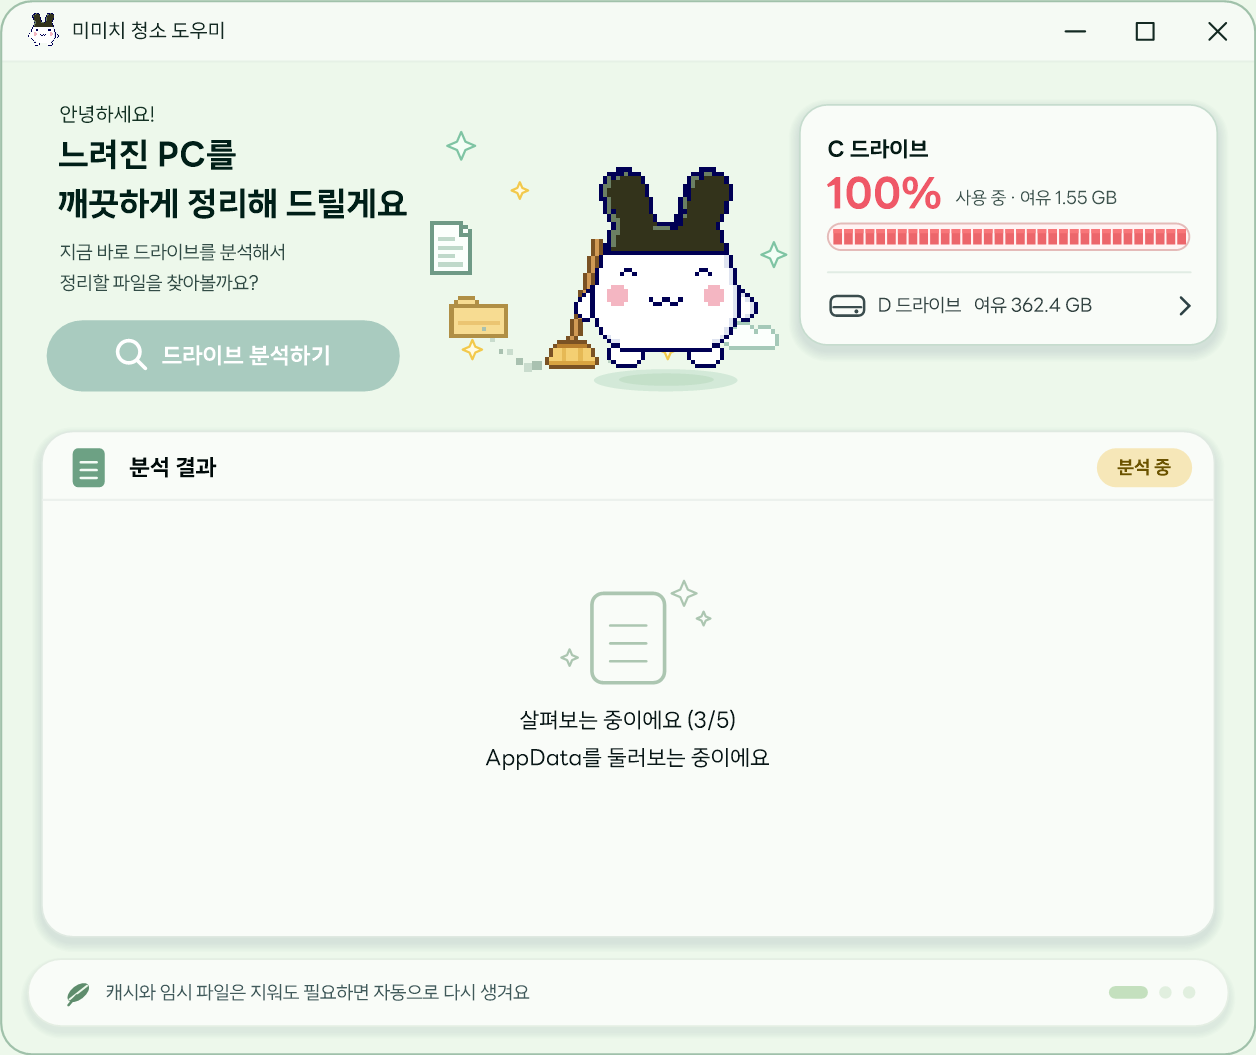
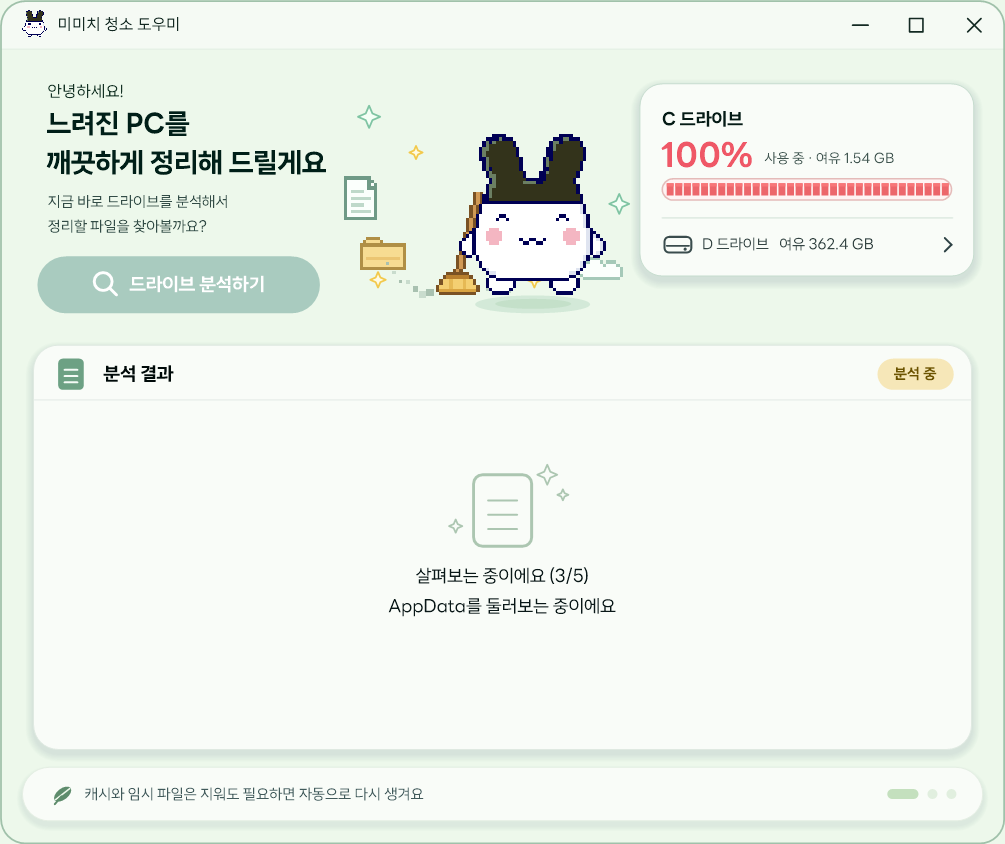
Shrink the default window (-Zoom, default 0.8)
The window opened at 88% of a 1200px-high screen on a 140% display. Add -Zoom (0.5-2.0,
default 0.8) as a display scale on top of the system DPI scale; layout is unchanged.

diff --git a/README.md b/README.md
@@ -58,6 +58,7 @@ powershell -ExecutionPolicy Bypass -File .\MimichiCleaner.ps1 -Dest "E:\Moved" -
 | `-Dest` | 이동 대상 폴더 | 여유 공간이 가장 큰 비시스템 드라이브의 `정리대기` |
 | `-MinMB` | 대용량 파일 기준(MB) | 100 |
 | `-AutoAnalyze` | 실행 즉시 분석 | - |
+| `-Zoom` | 화면 크기 배율 (0.5 ~ 2.0) | 0.8 |
 
 ## 안전 정책
 
